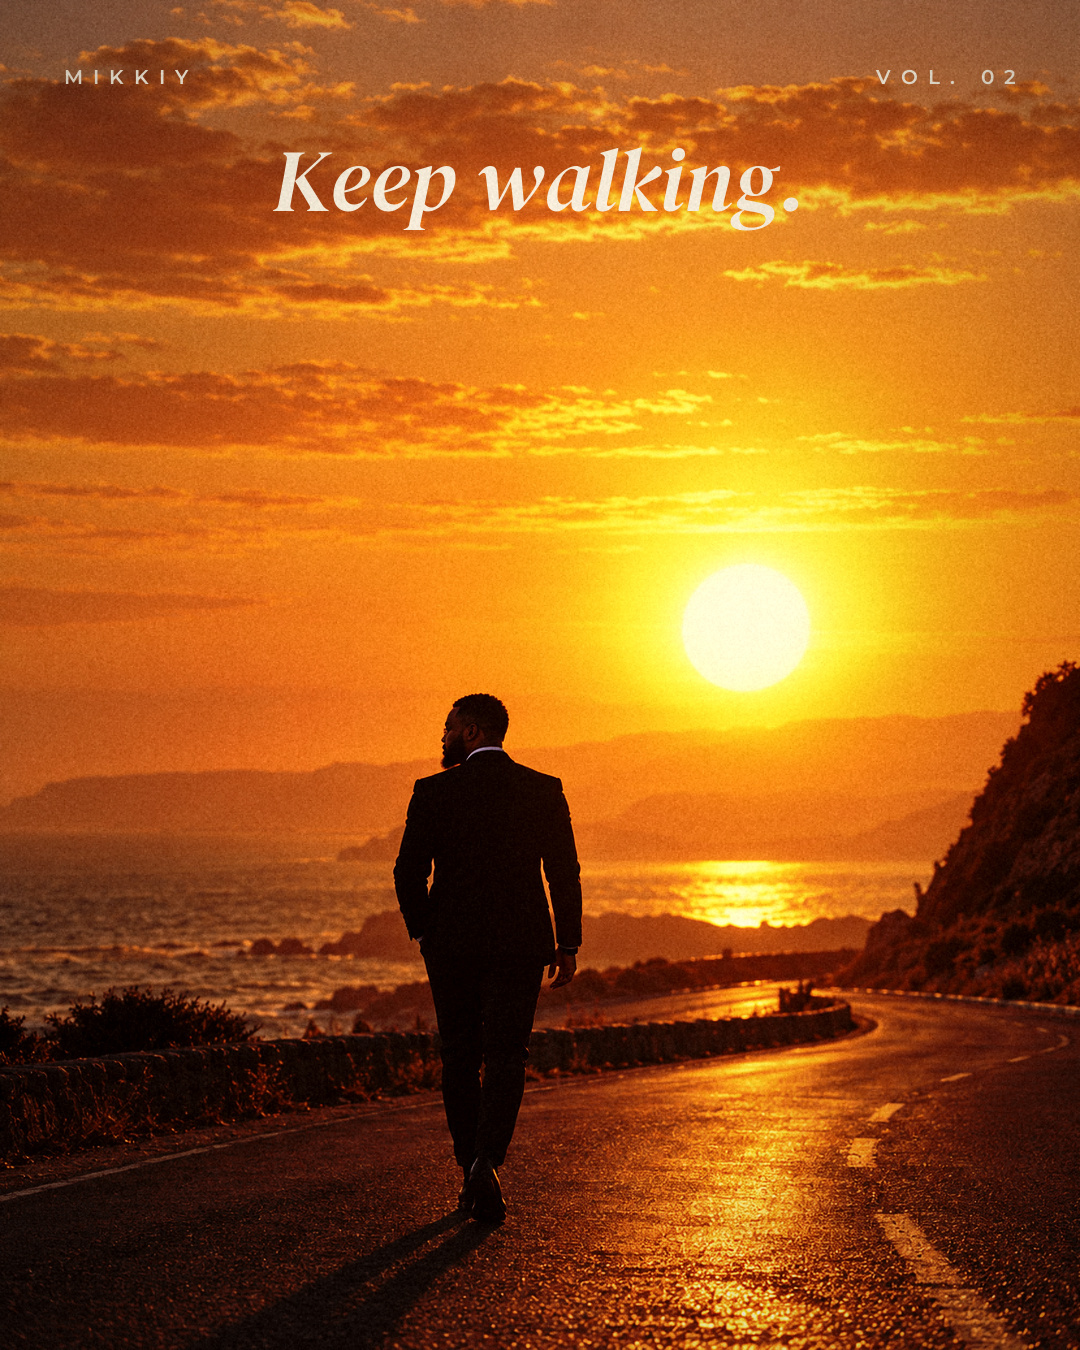
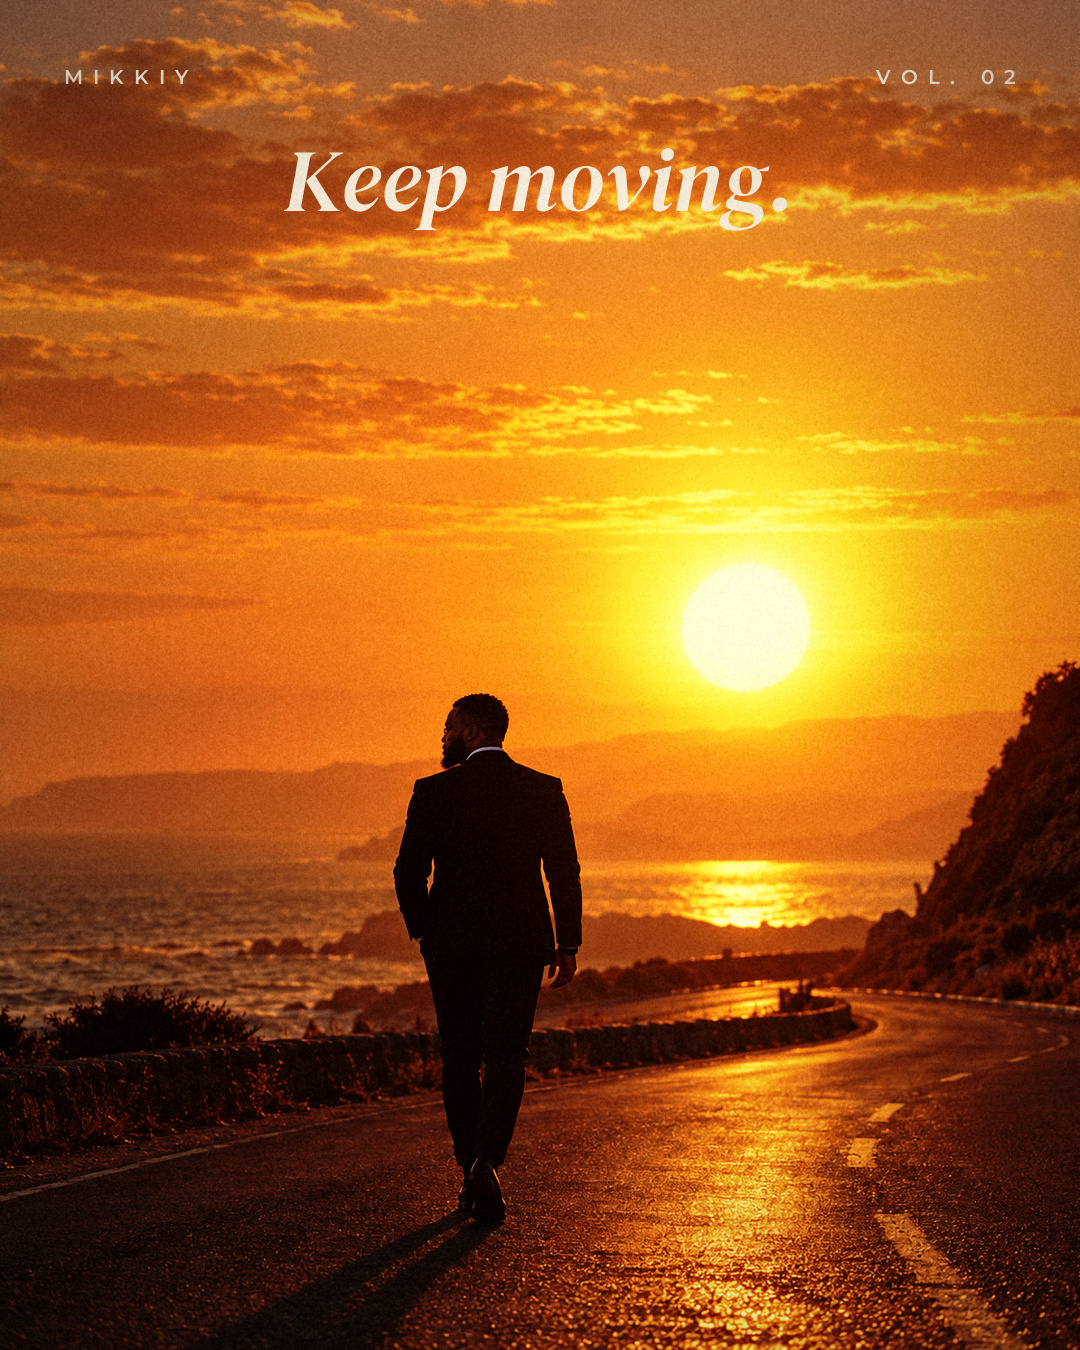
queue: sync from Mac

Changed region(s): [[0.2444, 0.0933, 0.7333, 0.1867]]

diff --git a/ig.py b/ig.py
@@ -543,12 +543,13 @@ def sync_cloud():
             src = Path(f)
             if src.suffix.lower() in (".mp4", ".mov"):
                 dst = HOSTING / "queue_media" / f"{slug}-{i}{src.suffix.lower()}"
-                if not dst.exists():
+                if not dst.exists() or src.stat().st_mtime > dst.stat().st_mtime:
                     shutil.copy(src, dst)
             else:
                 is_cover = x["kind"] == "reel" and i > 0
                 dst = HOSTING / "queue_media" / f"{slug}-{i}.jpg"
-                if not dst.exists():
+                # Re-upload when the source was edited after the last sync (re-rendered designs).
+                if not dst.exists() or src.stat().st_mtime > dst.stat().st_mtime:
                     shutil.copy(to_jpeg(src, feed=not is_cover), dst)
             files.append(dst.relative_to(HOSTING).as_posix())
         cap = HOSTING / "queue_captions" / f"{slug}.txt"
